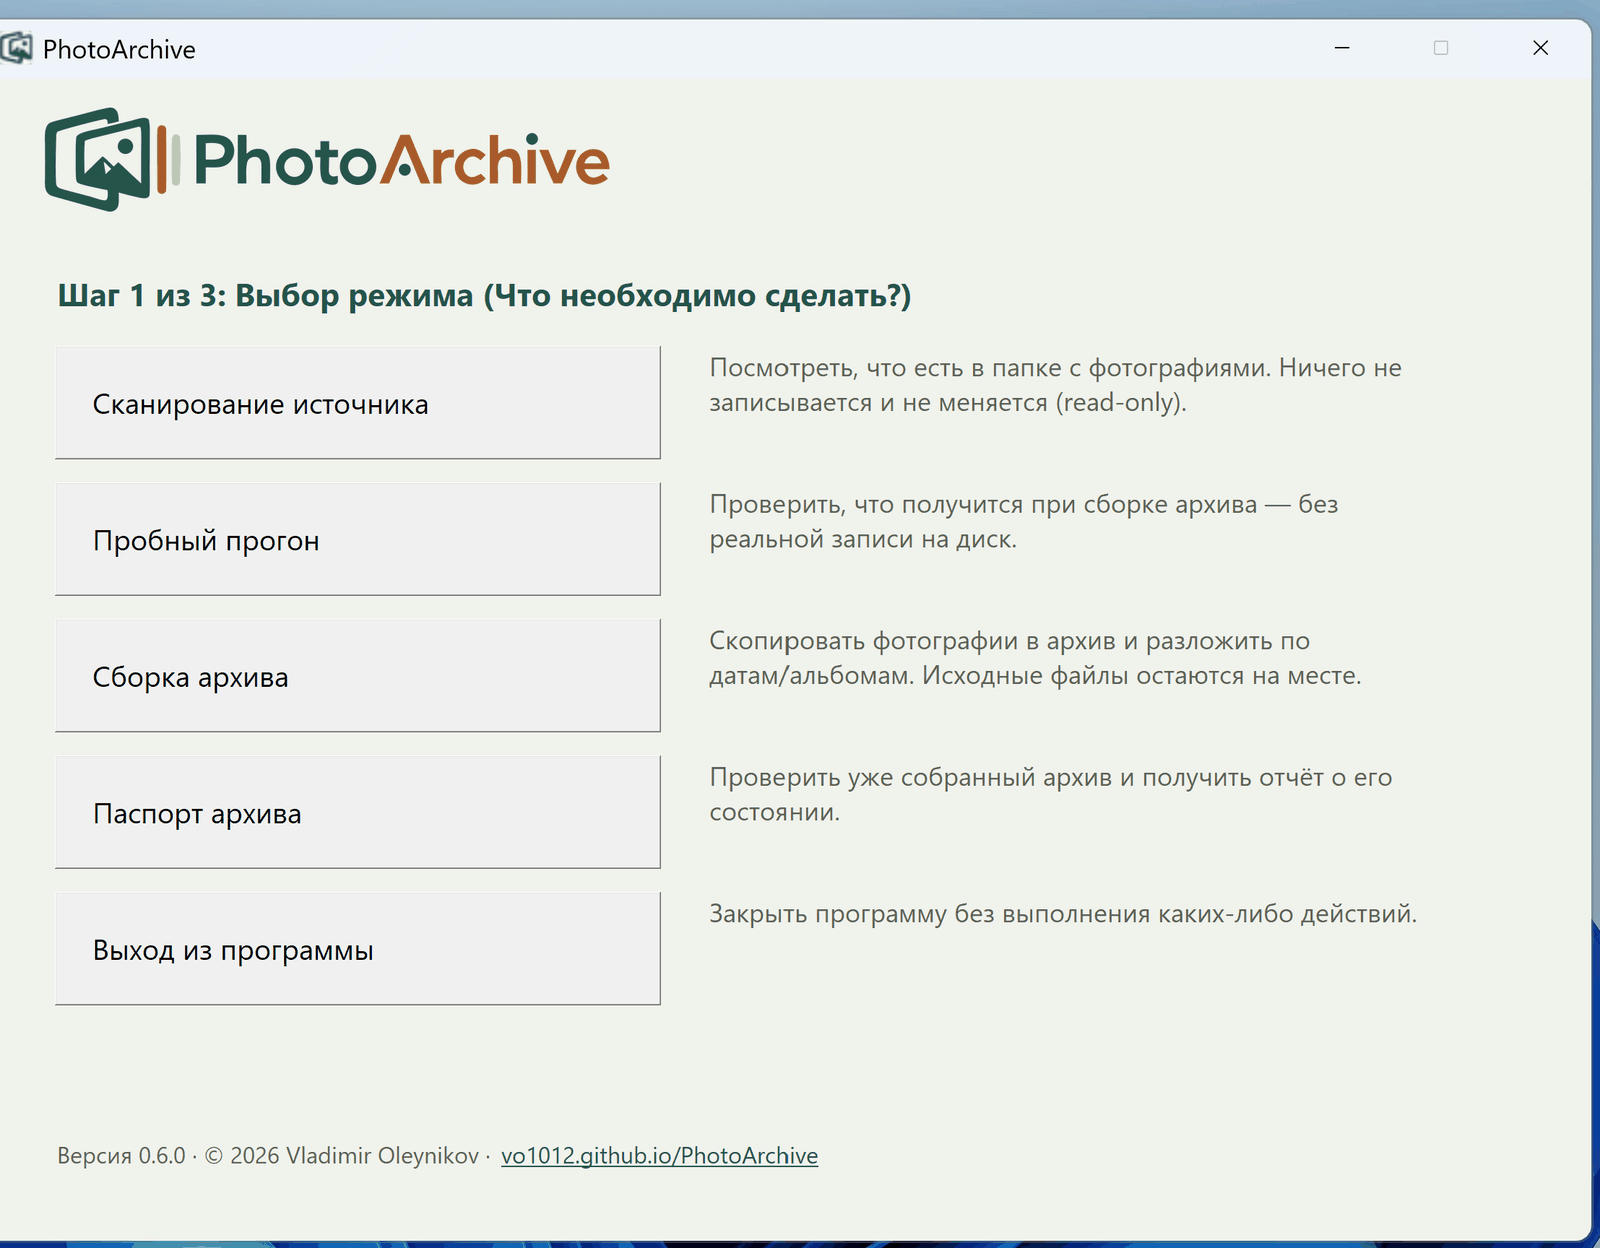
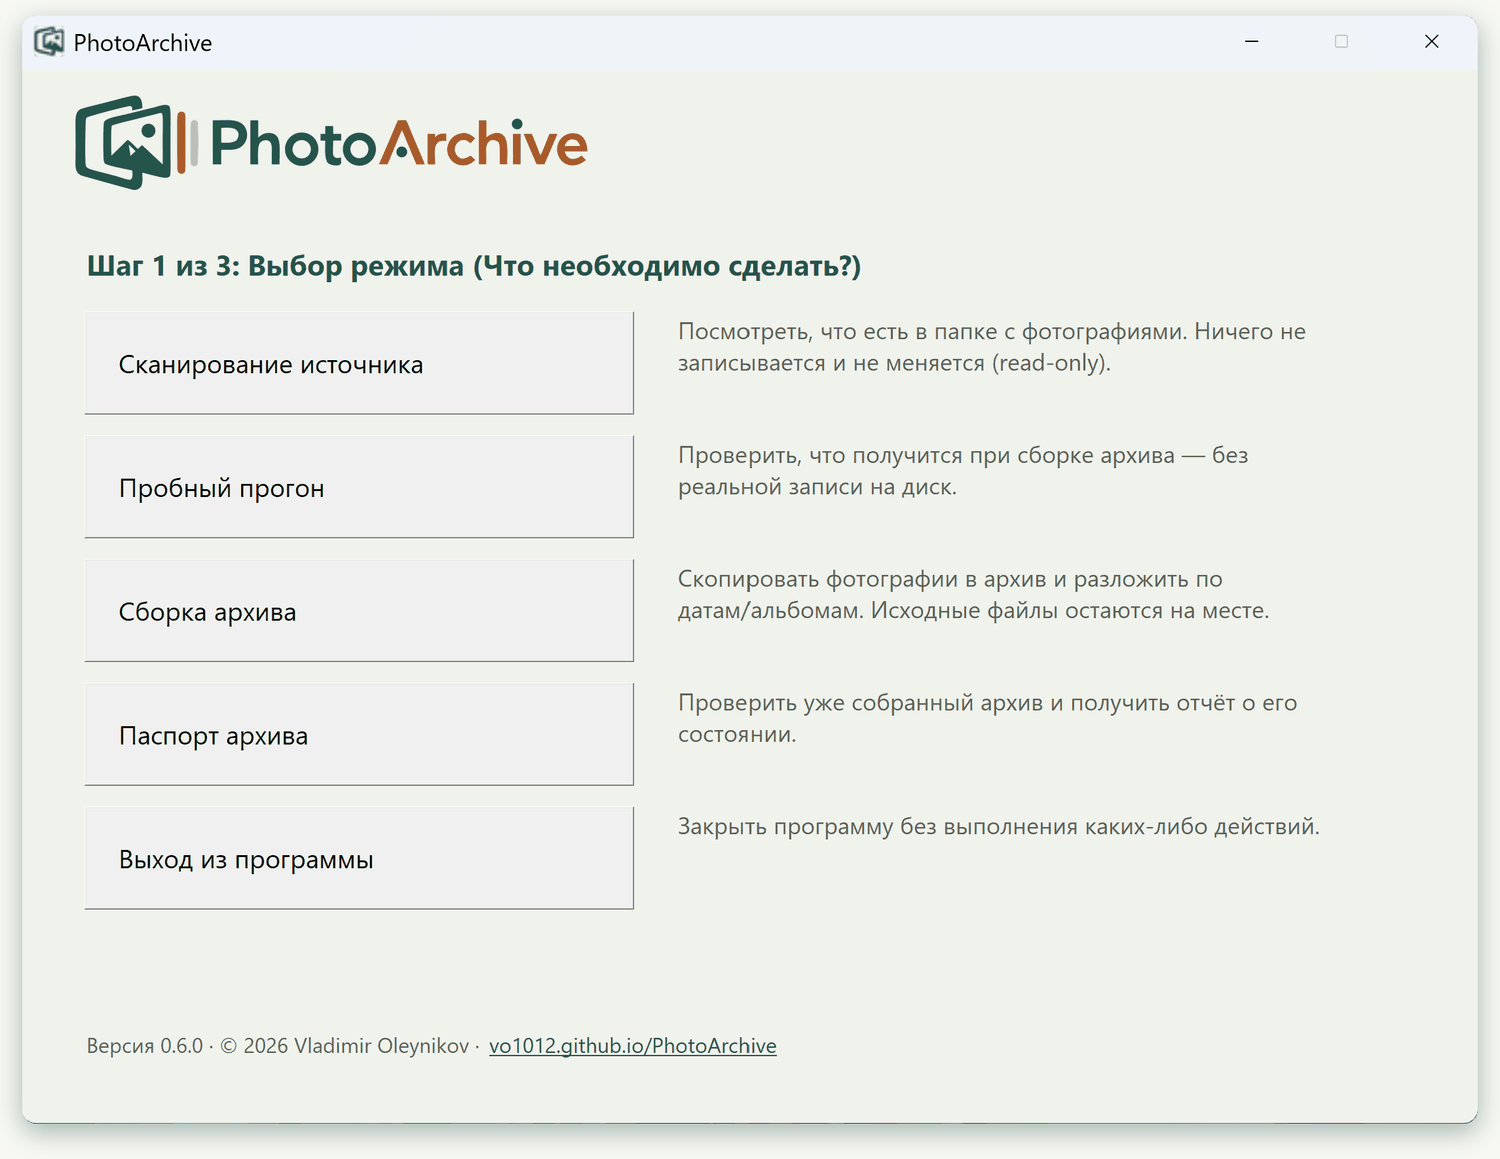
Сайт: скриншот интерфейса — убрать обои рабочего стола по краям
Кадр обрезан по рамке окна, углы скруглены, окно на фоне цвета .plaque
(#F7F8F3) с мягкой тенью в тон теневой рамки плашки — рабочего стола
в кадре не осталось. 1500x1159, ~100 КБ; width/height в index.html.

Claude-Session: https://claude.ai/code/session_015MEvdCdh4YEqDxJvLuxHZu

diff --git a/index.html b/index.html
@@ -211,7 +211,7 @@
         </div>
         <figure class="media-figure plaque">
           <div class="win-label" aria-hidden="true">PhotoArchive.exe</div>
-          <img src="assets/img/interface.png" width="1600" height="1248" loading="lazy"
+          <img src="assets/img/interface.png" width="1500" height="1159" loading="lazy"
                alt="Стартовое окно PhotoArchive: мастер выбора режима — сканирование источника, пробный прогон, сборка архива, паспорт архива.">
         </figure>
       </div>
